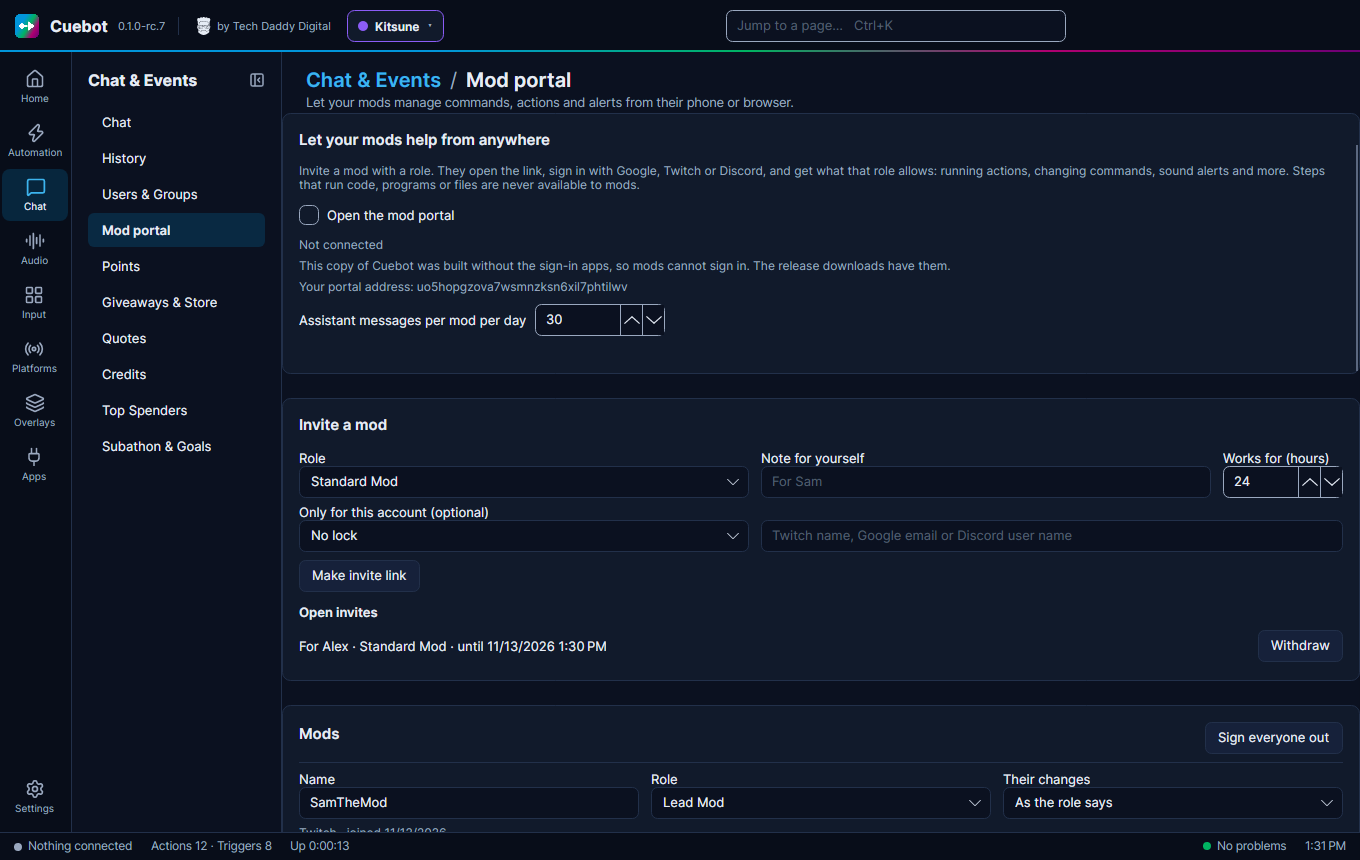
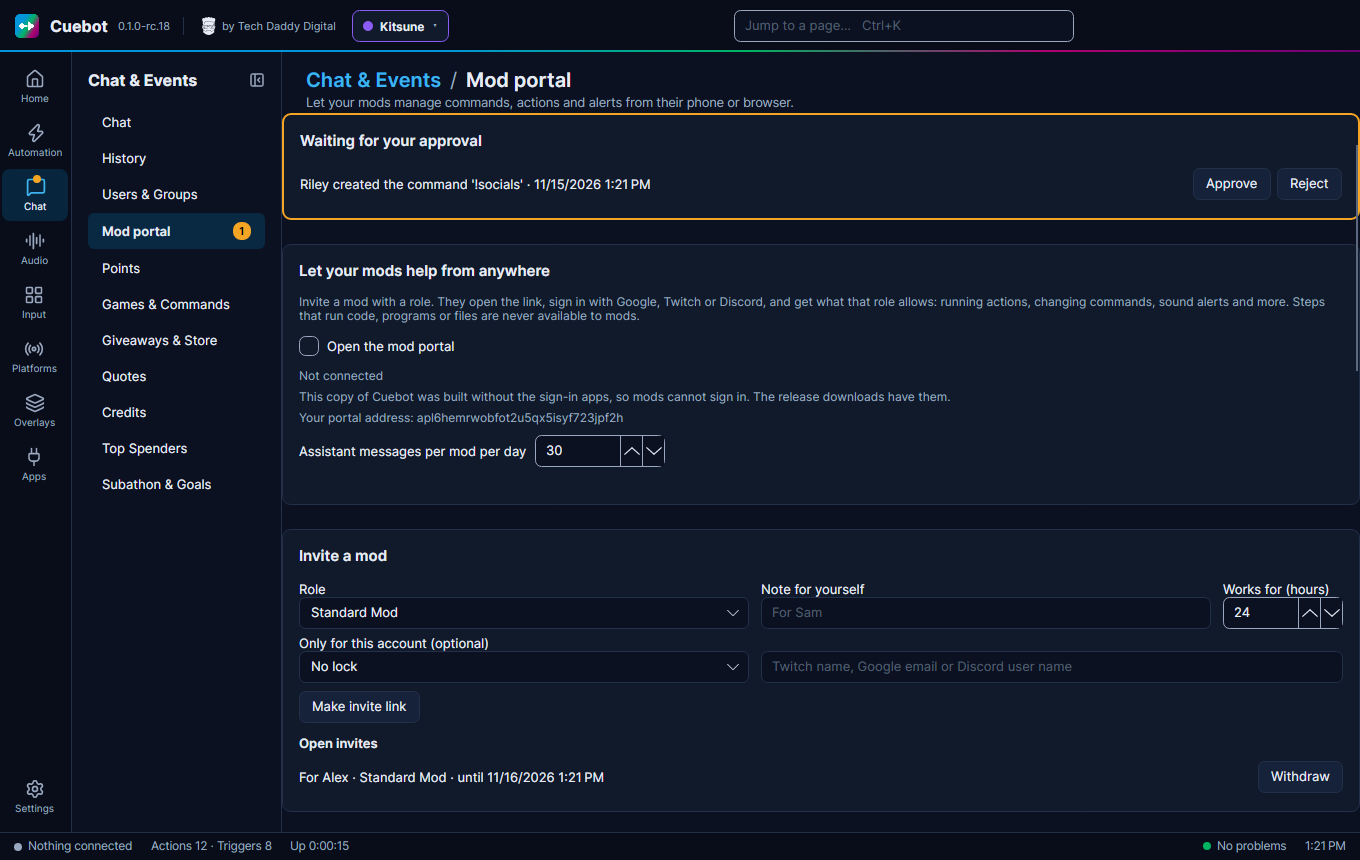
Docs screenshots for game categories, request and approval strips, invite QR and the portal's Needs a yes
DocsScreenshots now keeps the approval strip (the demo's waiting mod
change) out of the page pictures and captures it, Cuebot's request strip
and a new invite with its QR code on their own. The live portal demo
(PortalUiLiveTests) includes a category request, so portal-home and
portal-phone show the Needs a yes card.

New: page-game-categories, card-game-detection,
card-switch-the-stream-category, card-try-it, banner-request,
banner-approval, card-invite-a-mod-qr. Updated: page-mod-portal and
card-waiting-for-your-approval (approvals first), servers-pairing (the
pair-only-your-own-device warning), portal-home, portal-phone. Only these
were kept from the generated set; the rest were unchanged screens.
The Game categories and Mod portal guides show them. mkdocs build
--strict passed.

AI-Assisted-By: Claude

diff --git a/tests/Cuebot.UiTests/DocsScreenshots.cs b/tests/Cuebot.UiTests/DocsScreenshots.cs
@@ -53,6 +53,11 @@ public sealed class DocsScreenshots : IAsyncDisposable
         var window = new MainWindow { DataContext = vm, Width = 1360, Height = 860 };
         window.Show();
         Pump();
+        // The demo's mod change waits for approval, which puts a strip above every page: keep it out of the page
+        // pictures (it gets its own, banner-approval.png, at the end).
+        var approvalBanner = window.GetVisualDescendants().OfType<Border>().Single(b => b.Name == "ApprovalBanner");
+        approvalBanner.ClipToBounds = true;
+        approvalBanner.MaxHeight = 0;   // IsVisible is bound, so it would come back
         DocsDemoData.Chat(_host);
         Settle();
 
@@ -127,6 +132,34 @@ public sealed class DocsScreenshots : IAsyncDisposable
         window.GetVisualDescendants().OfType<Button>().First(b => Equals(b.Content, "New deck token")).BringIntoView();
         Settle();
         Save(window, "servers-pairing");
+        window.Height = 860;
+
+        // Strips above every page: Cuebot's own request (a category switch) and a mod's change waiting for approval.
+        vm.SelectedPage = vm.Dashboard;
+        var requests = _host.Get<Cuebot.Core.Requests.StreamRequests>();
+        var request = requests.Add("category", "Switch the stream category to Helldivers 2?", "Twitch: Helldivers 2 · Kick: HELLDIVERS 2",
+            TimeSpan.FromMinutes(10), (_, _) => Task.FromResult("Category switched."), acceptLabel: "Switch", remember: "Always for this game");
+        Settle();
+        SaveControl(window, window.GetVisualDescendants().OfType<Border>().Single(b => b.Name == "RequestBanner"), "banner-request");
+        requests.AnswerAsync(request.Id, Cuebot.Core.Requests.RequestAnswer.Decline, "docs").GetAwaiter().GetResult();
+        approvalBanner.MaxHeight = double.PositiveInfinity;
+        Settle();
+        SaveControl(window, approvalBanner, "banner-approval");
+        approvalBanner.MaxHeight = 0;
+
+        // A new invite shows its link and a QR code for the mod to scan.
+        var portal = vm.Pages.OfType<ModPortalViewModel>().Single();
+        vm.SelectedPage = portal;
+        portal.InviteLabel = "For Jordan";
+        portal.CreateInviteCommand.Execute(null);
+        window.Height = 1400;
+        Settle();
+        var inviteCard = window.GetVisualDescendants().OfType<Border>()
+            .First(b => b.Classes.Contains("card") && b.GetVisualDescendants().OfType<TextBlock>().Any(t => t.Text == "Invite a mod"));
+        inviteCard.BringIntoView();
+        Settle();
+        SaveControl(window, inviteCard, "card-invite-a-mod-qr");
+        portal.HideInviteCommand.Execute(null);
         window.Height = 860;
 
         // The action editor: the list of steps, then the same action as a flowchart.

diff --git a/tests/Cuebot.Portal.Tests/PortalUiLiveTests.cs b/tests/Cuebot.Portal.Tests/PortalUiLiveTests.cs
@@ -107,10 +107,15 @@ public sealed class PortalUiLiveTests
         var changes = new PortalChanges(new PortalChangeLog(), () => { }, directory, [new ActionArea(profile), new CommandArea(commands), new UploadArea(store)]);
         var tools = MediaTools.Find();
         using var uploads = new PortalUploads(store, changes, tools is null ? null : new MediaCleaner(tools), Path.Combine(media, "quarantine"), log);
+        // Cuebot asks for a yes (the Home page's "Needs a yes" card): switching the category to the game being played.
+        var requests = new Cuebot.Core.Requests.StreamRequests(new EventBus(log), log);
+        requests.Add("category", "Switch the stream category to Helldivers 2?", "Twitch: Helldivers 2 · Kick: HELLDIVERS 2",
+            TimeSpan.FromMinutes(30), (_, _) => Task.FromResult("Category switched on Twitch and Kick."), acceptLabel: "Switch",
+            remember: "Always for this game");
         var controls = new PortalControls(profile, chat,
             [new TestConnection("Twitch", ConnectionState.Connected, "Connected as TechDaddy"), new TestConnection("OBS", ConnectionState.Connected, "Connected"),
              new TestConnection("Ko-fi", ConnectionState.Error, "Webhook not set up")],
-            obs: null, engine.Queues, speech: null, audio: null, log);
+            obs: null, engine.Queues, speech: null, audio: null, log, requests: requests);
         var api = new PortalApi(directory, changes, profile, commands, engine, registry, controls, uploads);
         await using var client = new PortalRelayClient(directory, log) { LinkHandler = new PortalSignInHandler(directory, new TestExchange(), api.HandleAsync, log) };
         using var timeout = new CancellationTokenSource(TimeSpan.FromMinutes(30));

diff --git a/website/docs/guides/platforms/game-categories.md b/website/docs/guides/platforms/game-categories.md
@@ -5,9 +5,13 @@ Twitch and Kick (and "Gaming" on YouTube). It **asks first**: nothing changes un
 
 Find it under **Platforms > Game categories**.
 
+![The Game categories page: game detection with the list of apps that are never a game, and switching the stream category](../../assets/screens/page-game-categories.png)
+
 ## Game detection
 
 Tick **Watch Steam for games**. The page then says what you are playing, like *Playing now: Helldivers 2*.
+
+![The Game detection card](../../assets/screens/card-game-detection.png)
 
 Cuebot reads what Steam itself records about running apps, so it works for every Steam game, on Windows, macOS and
 Linux (including games that run through Proton).
@@ -30,6 +34,8 @@ OBS scene when a game starts. See [Games triggers](../../reference/triggers/game
 
 Tick **Ask to switch the category when a game starts**, and the platforms to switch on:
 
+![The Switch the stream category card](../../assets/screens/card-switch-the-stream-category.png)
+
 | Platform | What changes |
 | --- | --- |
 | **Twitch** | The game (category) of your channel. |
@@ -47,8 +53,14 @@ up in every one of these places at once:
 
 - **In Cuebot:** a strip across the top of the window with **Switch**, **Always for this game** and **Ignore**, and a
   notification.
+
+    ![The request strip at the top of Cuebot: Switch, Always for this game and Ignore](../../assets/screens/banner-request.png)
+
 - **In the [mod portal](../mods/mod-portal.md):** a **Needs a yes** card at the top of the Home page, for mods whose
   role may control the stream (**Lead Mod** and **Tech Lead** at first).
+
+    ![The mod portal's Home page with the Needs a yes card](../../assets/screens/portal-home.png)
+
 - **In the [phone app](../mods/phone-app.md):** on your own paired phone or tablet, under **Waiting for your OK** on
   the Mods tab, with a notification. A mod using the app gets a notification and answers on the portal's Home page.
 
@@ -70,6 +82,8 @@ first, the question is taken back.
   matches names without caring about capitals, spaces and symbols (*HELLDIVERS™ 2* is *Helldivers 2*).
 
 ### Try it
+
+![The Try it card](../../assets/screens/card-try-it.png)
 
 Type a game's name under **Try it** and click **Ask now**. Cuebot acts as if that game just started: the question
 shows up everywhere it would on stream. Answer **Ignore** if you don't want the category changed.

diff --git a/website/docs/guides/mods/mod-portal.md b/website/docs/guides/mods/mod-portal.md
@@ -54,7 +54,7 @@ Mods open `portal.techdaddydigital.com` on their phone or computer, or use the *
 | **Text-to-speech** | Say something with your default voice and word filters; pause, skip or turn it off | Everyone says; Lead Mod and Tech Lead control |
 | **My changes** | Their own changes, with Undo | Everyone |
 
-![The mod portal's home page: quick actions and live activity](../../assets/screens/portal-home.png)
+![The mod portal's home page: a question that needs a yes, quick actions and live activity](../../assets/screens/portal-home.png)
 
 In the action editor, steps above the mod's level are shown but locked, and the step list only offers the steps they
 may add. Before running an action that can change the stream itself (end it, ban someone, change the title), the
@@ -244,6 +244,8 @@ While something waits, you can't miss it: a strip above every page says what it 
 portal page shows a count in the page list, and Cuebot shows a notification. With **Live and tell me** you get the
 notification too.
 
+![The strip above every page: Riley wants to add the command '!socials', with Review](../../assets/screens/banner-approval.png)
+
 Every role has one of these. You can set a different one for a single mod under **Their changes**.
 
 Under **Recent changes by mods**, **Undo** puts back what was there before. If it changed again since, Cuebot asks
@@ -268,6 +270,9 @@ paired with this Cuebot, lists the changes waiting for you on its **Mods** tab, 
 - Next to the link is a **QR code**. A mod sitting next to you scans it with the [phone app](phone-app.md#for-mods)
   (**Mods > Join with an invite**) or with their phone's camera, which opens the portal in the browser.
   **Get the Companion app** opens the download page.
+
+    ![A new invite: the link, its QR code and Get the Companion app](../../assets/screens/card-invite-a-mod-qr.png)
+
 - Never pair a mod's phone on **Apps > Servers** instead: pairing gives full control of Cuebot. An invite gives only
   what the mod's role allows.
 - **Only for this account** locks it to one Twitch name, Google email or Discord user name, so a leaked link is
